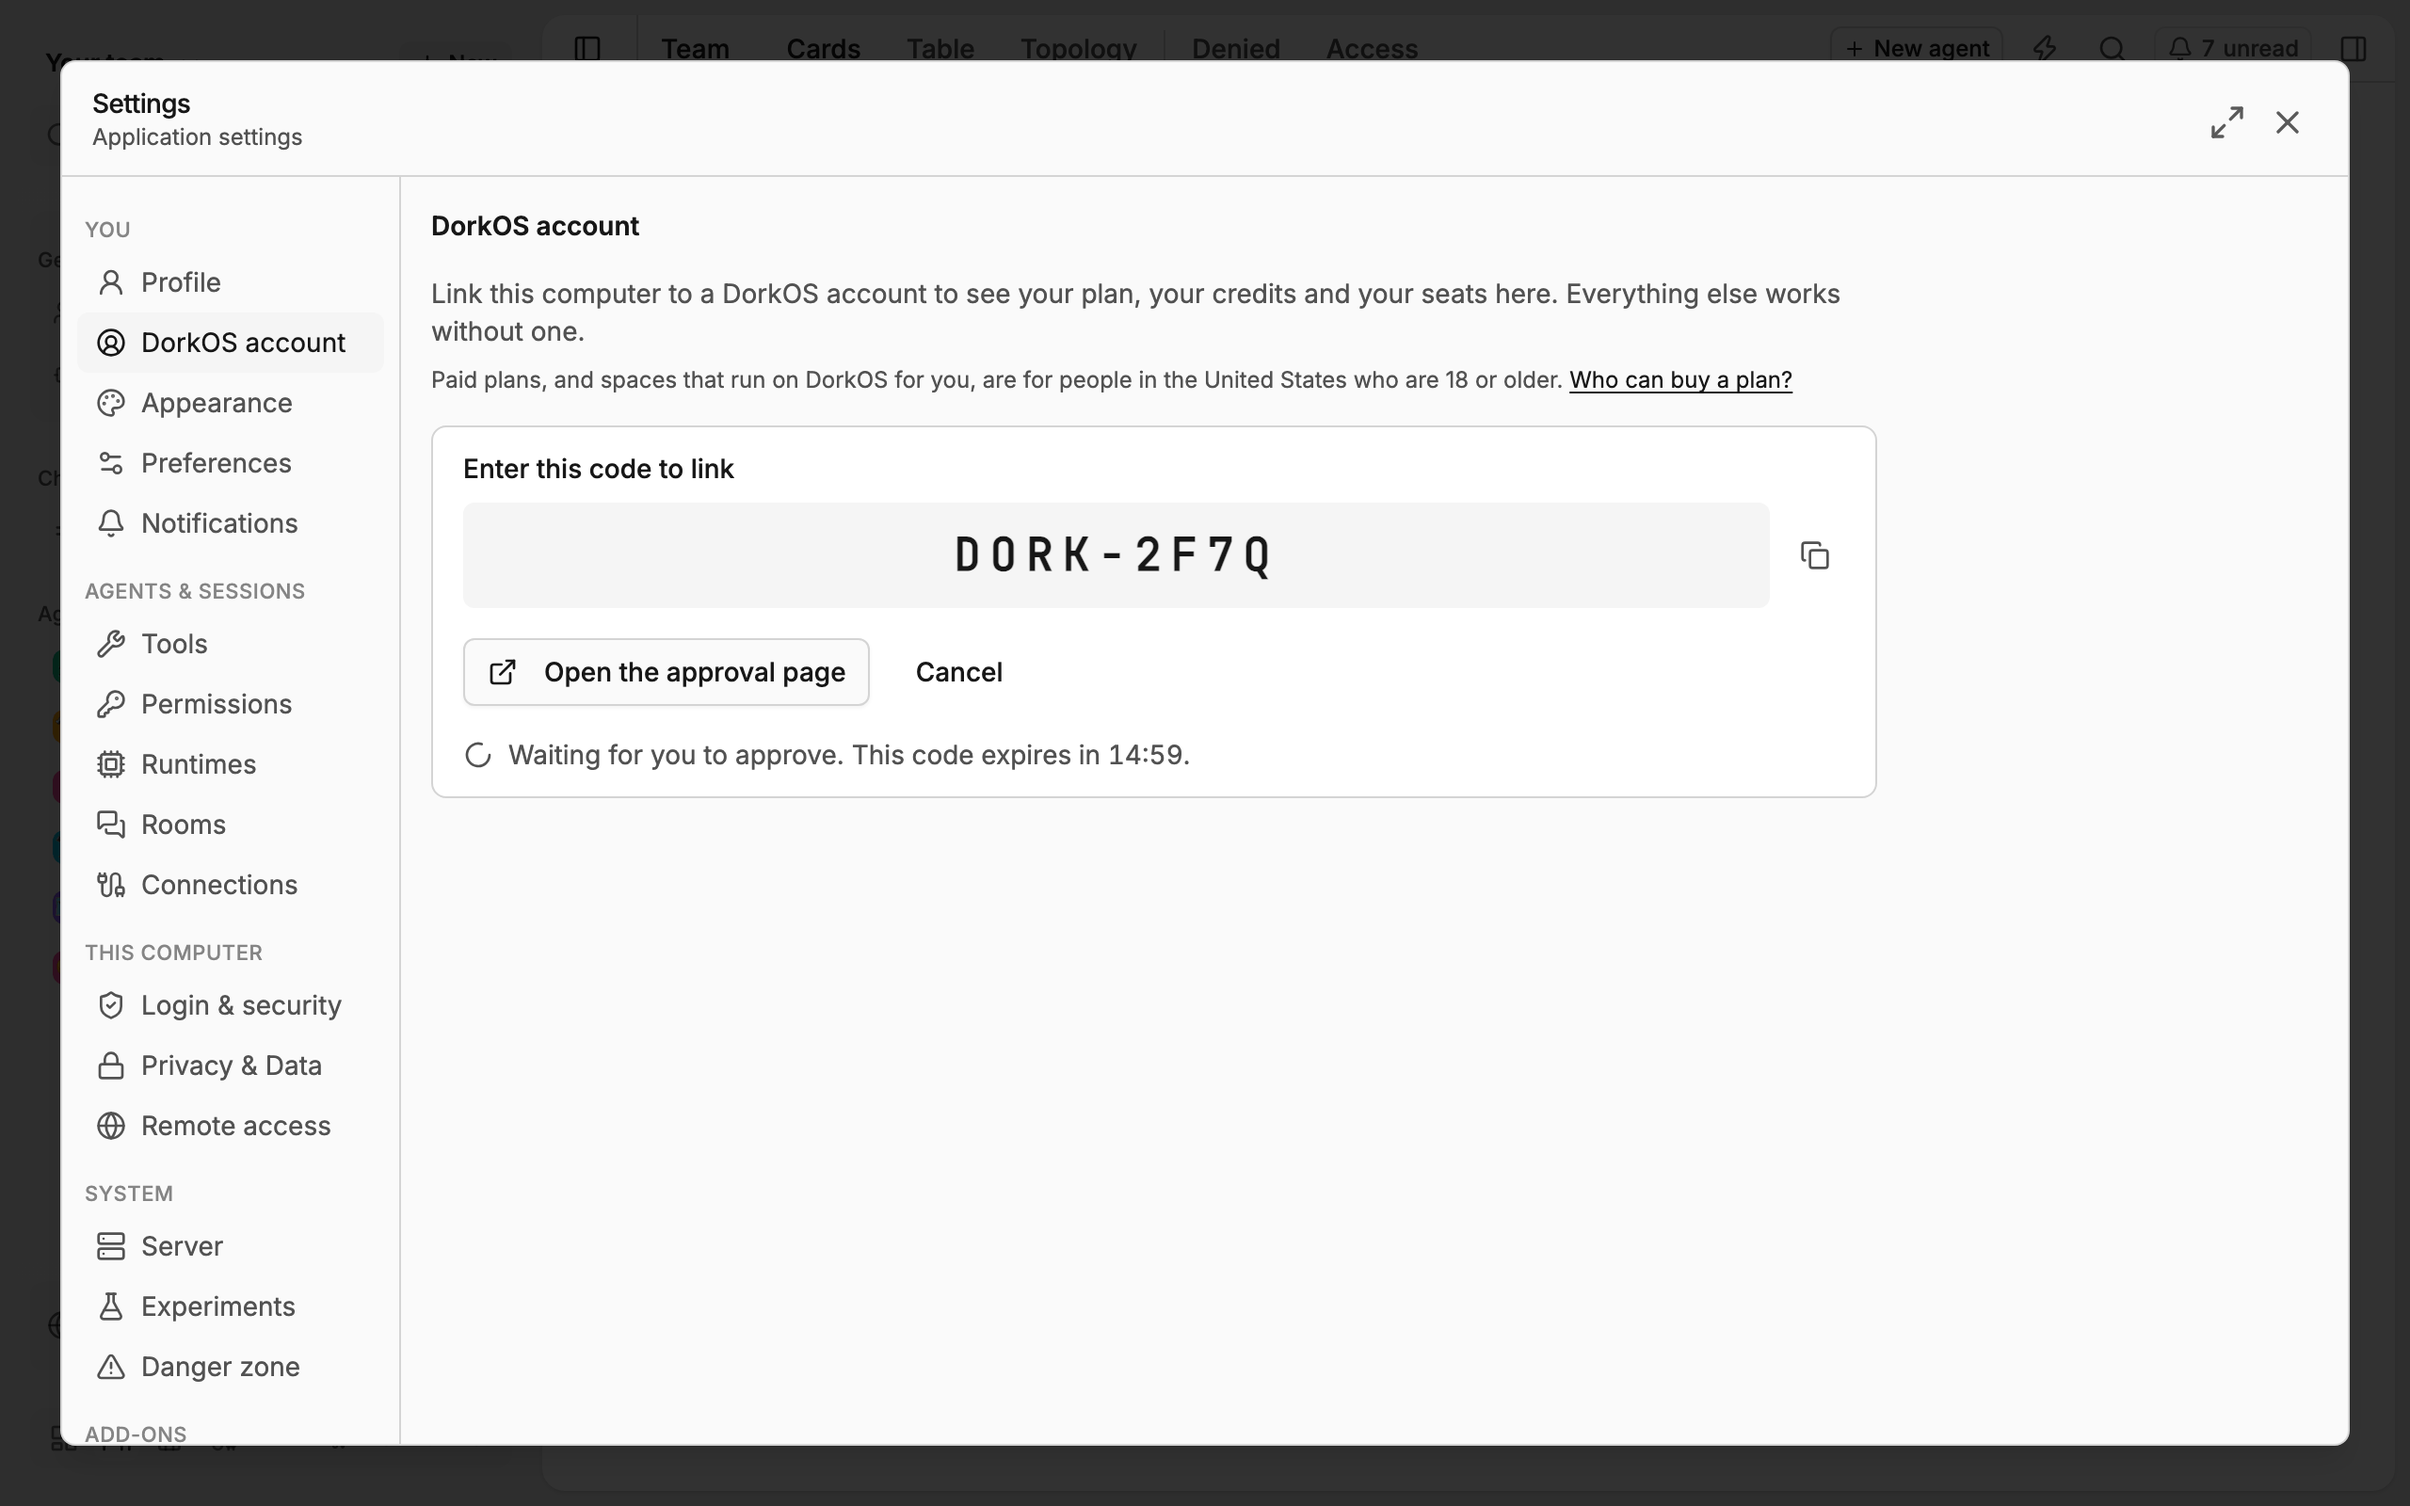
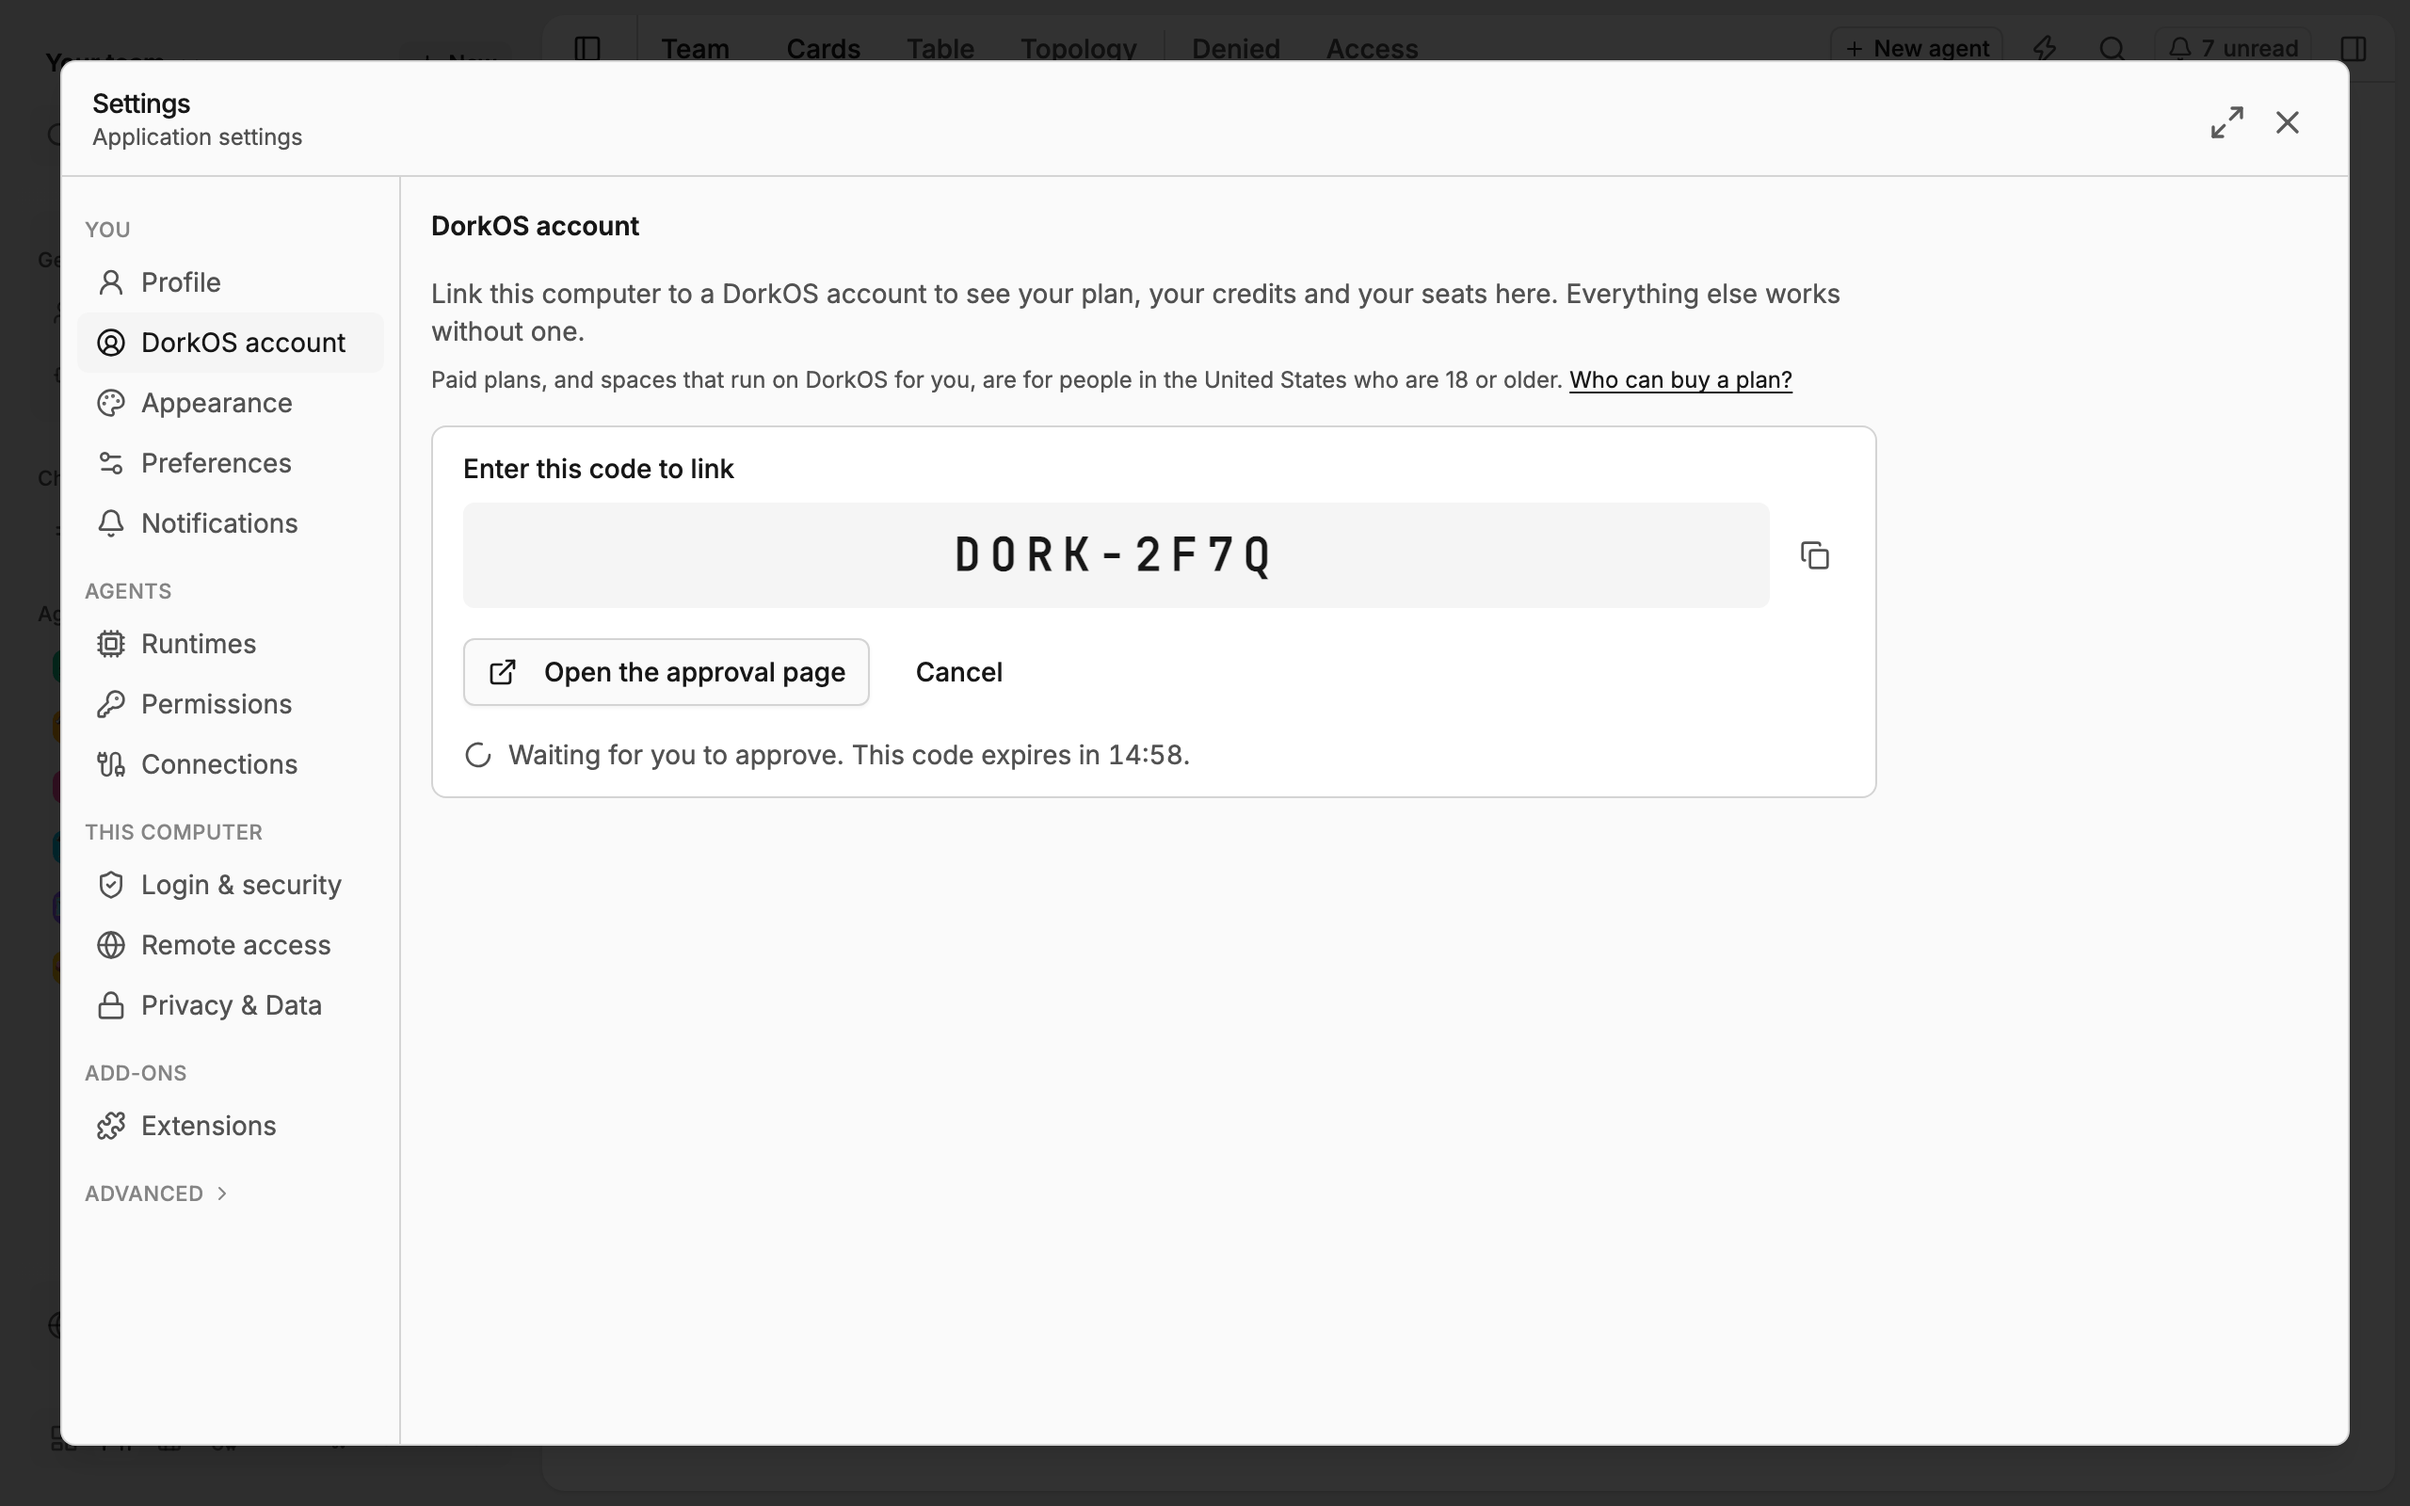
docs(site): recapture the DorkOS account shots with the new Settings grouping
Re-shot accounts-pending and accounts-linked through the capture shard
worker (only those two shots) and the PNG optimizer, so the docs show the
You / Agents / This computer sidebar with Advanced folded. Alt text still
matches.

Claude-Session: f9fb142e-1b7d-409e-9c22-0e9ef9981361

diff --git a/apps/client/src/layers/features/agent-settings/__tests__/AgentMcpServers.test.tsx b/apps/client/src/layers/features/agent-settings/__tests__/AgentMcpServers.test.tsx
@@ -142,7 +142,7 @@ describe('AgentMcpServers', () => {
     } as RuntimeCapabilities);
   });
 
-  it('cross-links to Settings → Tools for the inbound MCP direction (plan D7)', async () => {
+  it('cross-links to Settings → Advanced → Tools for the inbound MCP direction (plan D7)', async () => {
     const transport = createMockTransport({
       listAgentMcpServers: vi.fn().mockResolvedValue([]),
       getMcpConfig: vi.fn().mockResolvedValue({ servers: [] }),

diff --git a/changelog/unreleased/261001-054103-settings-advanced-fold.md b/changelog/unreleased/261001-054103-settings-advanced-fold.md
@@ -2,6 +2,7 @@
 covers:
   - 'feat(client): fold power-user Settings into one Advanced group'
   - 'fix(client): give the Advanced fold its own tab list, and reach every Settings tab from the palette'
+  - 'docs(site): recapture the DorkOS account shots with the new Settings grouping'
 ---
 
 ### Changed
